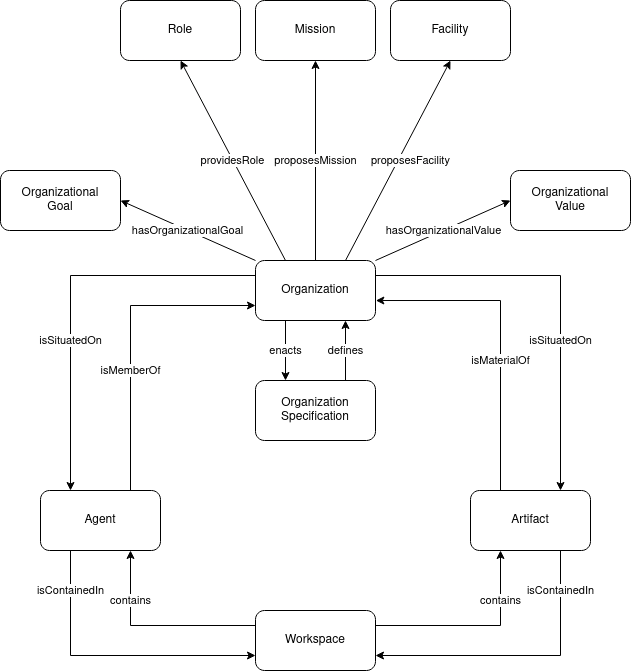
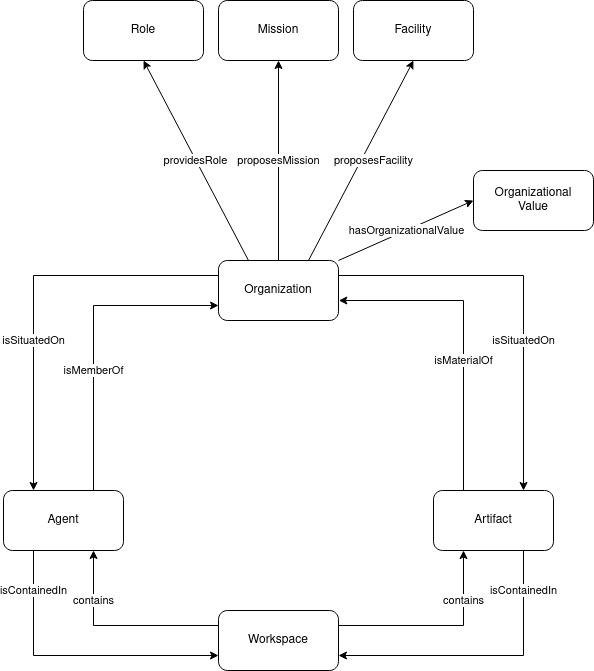
Removed OrganizationSpecification and OrganizationalGoal. Refined terms definition. Rebased ontology to hmas prefix

diff --git a/domains/logistics/create-organization/README.md b/domains/logistics/create-organization/README.md
@@ -5,14 +5,11 @@ John has experience working in a successful specialized industrial logistics ent
 
 John, however, is unsure whether the SL Logistics' organizational model is adequate in his case. Thus, he conducts a comparative analysis between the SL Logistics organizational model with similar enterprises but whose organizational model are based on different assumptions and some theoretical models (i.e., not yet enacted models). He concludes that the SL Logistics' organizational model is adequate to create the FL Logistics enterprise.
 
-The main aspect of the SL Logistics that motivated John to copy its organizational model is the enterprise culture reflected in its organizational values and goals:
+The main aspect of the SL Logistics that motivated John to copy its organizational model is the enterprise culture reflected in its organizational values:
 
 * **Organizational Values**
   + _Commitment_: Do everything you can to keep the organization promisses to the customers.
   + _Integrity and Respect_: Communicate openly and honestly with the customers and other members of the organization.
-* **Organizational Goals**
-  + _Enhanced Customer Service_: Better handling of transportation and the overall logistics operation.
-  + _Enhanced Efficiency_: Increase the cost-effectiviness of the transportation system, reduce overhead costs and simplify the order processing.
 
 Additionally, the FL Logistics will mirror the composition of the SL Logistics and provides the following roles and responsibilities:
   1. _Human resources officer_: Hire, develop and look after employees.
@@ -27,25 +24,22 @@ Additionally, the FL Logistics will mirror the composition of the SL Logistics a
 
 | ID | Question in Natural Language | Example |
 |----|------------------------------|---------|
-| q1 | What is the enterprise X's organizational model that can be used to create a new enterprise?    | What is the SL Logistics' organizational model that John uses to create the FL Logistics? **ex:Logistics**                               |
+| q1 | What is the enterprise X's organizational model that can be used to create a new enterprise?    | What is the SL Logistics' organizational model that John can use to create the FL Logistics? **ex:Logistics**                            |
 | q2 | What are the enterprises that follows a different organizational model than enterprise X?       | What are the enterprises that follows a different organizational model than SL Logistics? **ex:HSG_Factory**, **ex:ITM_Factory**         |
-| q3 | What are the enterprises with the same organizational model as enterprise X and contained in Y? | What are the enterprises with the same organizational model as SL Logistics and contained in same Workspace? **ex:GL\_Logistics**        |
+| q3 | What are the enterprises with the same organizational model as enterprise X and contained in Y? | What are the enterprises with the same organizational model as SL Logistics and contained in same Workspace? **ex:GL_Logistics**         |
 | q4 | What are the available organizational models that can be used to create an new enterprise?      | What are the available organizational models that can be used by John to create the FL Logistics? **ex:Logistics**, **ex:Manufacturing** |
 
 ## Glossary
 
-* **Organization Specification**: An Organization Specification is a declarative specification used to enact one or multiple Organizations.
 * **Organization**: An Organization is an entity situated on Agents and Artifacts, and regulated by a regulation system.
-* **Organizational Goal**: An Organizational Goal is an objective that outlines expected results and guide Organization members' efforts.
 * **Organizational Value**: An Organizational Value is a belief about socially or personally desirable end state or action that are explicitly or implicitly shared by members of an organization.
 * **Situated Organization**: An Organization is situated through its Members and Materials.
 * **Member**: A Member refers to an Agent that belongs to an Organization.
 * **Material**: A Material refers to an Artifact that belongs to an Organization.
-* **Role**: A Role defines the position that Agents can adopt in an Organization.
-* **Mission**: A Mission gathers Organizational Goals that can be achieved by Agents in an Organization in relation to a Social Activity.
-* **Facility**: A Facility defines functions that are offered by Materials in an Organization in relation to a Space.
+* **Role**: A Role defines positions in an Organization.
+* **Mission**: A Mission gathers Organizational Goals.
+* **Facility**: A Facility defines functions in an Organization.
 
 ## Recommendations
 
-1. To be executable, an Organization has to fully enact an Organization Specification.
-2. An Organization enacts one and only one Organization Specification.
+None
